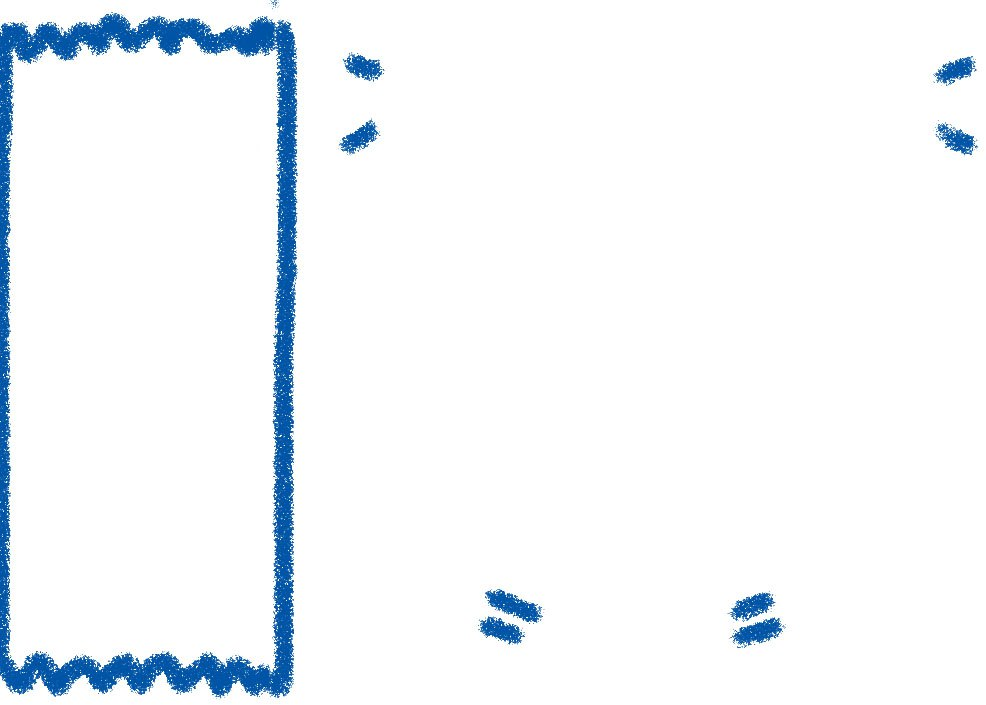
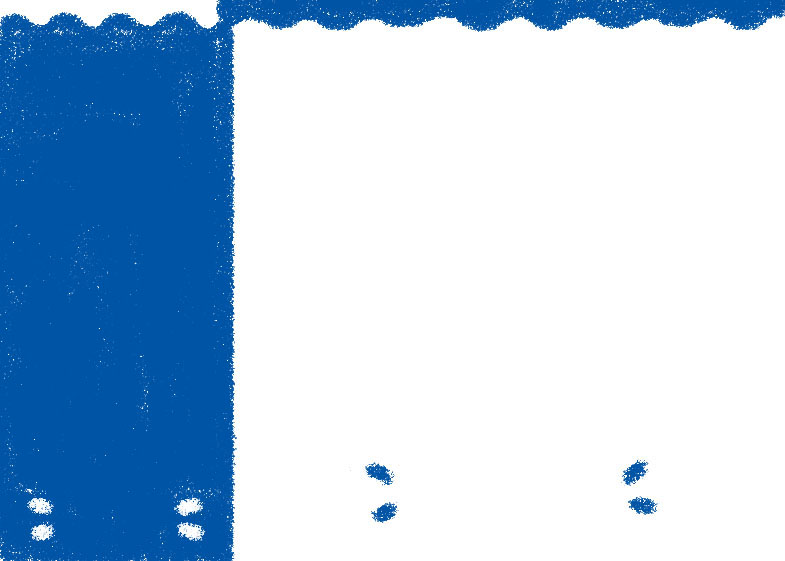
I'va changed background. And deleted button for refresh.

diff --git a/UIOfMemes/MainWindow.xaml b/UIOfMemes/MainWindow.xaml
@@ -75,10 +75,10 @@
             </ListView.ItemTemplate>
         </ListView>
         <Button Name="buttonAddGroup" Content="Add group" Foreground="White" Margin="0,50,0,20" MaxHeight="30" Grid.Row="2" IsEnabled="True" MinWidth="100" HorizontalAlignment="Center" Click="buttonAddGroup_Click" ></Button>
-        <StackPanel Orientation="Horizontal" HorizontalAlignment="Center" Margin="0 30"  Grid.Column="1" Grid.Row="2" VerticalAlignment="Top">
+        <StackPanel Orientation="Horizontal" HorizontalAlignment="Center" Margin="173,30,173,0"  Grid.Column="1" Grid.Row="2" VerticalAlignment="Top" Height="40">
             <Button Name="buttonAddMeme" Content="Add meme" Margin="5" Foreground="White" MinWidth="100" MaxHeight="30" IsEnabled="True"   Click="buttonAddMeme_Click" ></Button>
             <Button Name="buttonAddUserMeme" Content="Paint meme" Margin="5" Foreground="White" MinWidth="100" MaxHeight="30" IsEnabled="True" Click="buttonAddUserMeme_Click" ></Button>
-            <Button Name="buttonRefresh" Content="Refresh" Margin="5" MinHeight="40" IsEnabled="True" MinWidth="70" Click="buttonRefresh_Click" ></Button>
+
         </StackPanel>
         <DockPanel Grid.Column="1" Margin="50 50 50 0" >
             <Image x:Name="image1" Source="images/search.png" Height="30" Width="30" />
